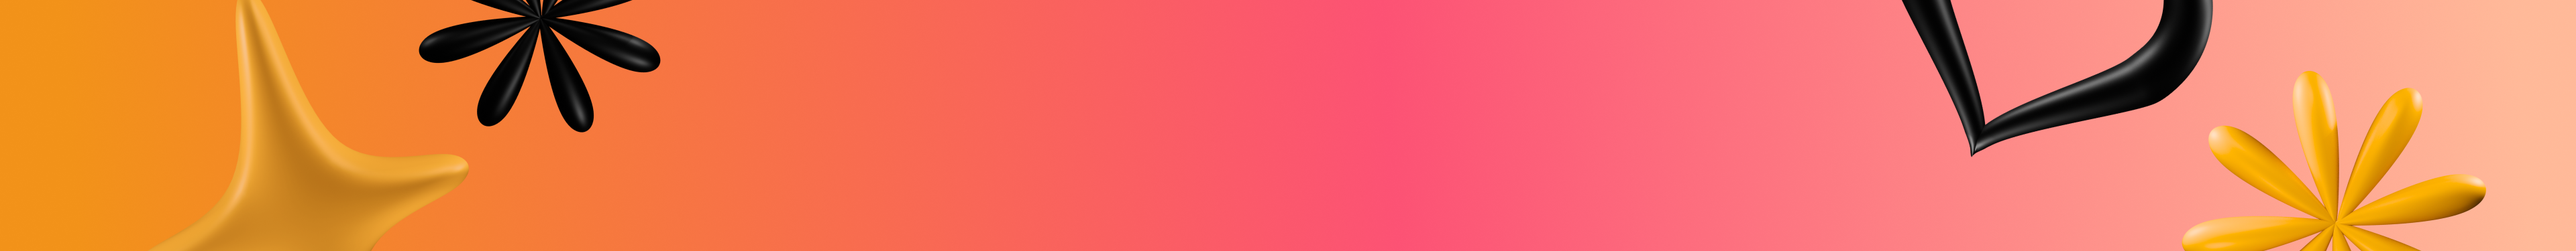
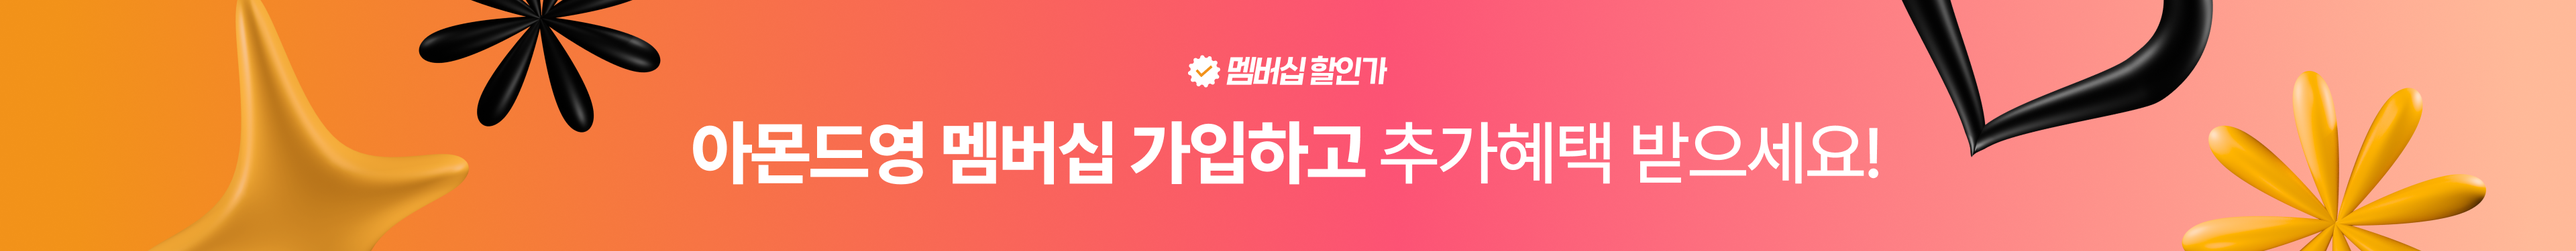
refactor: 배너 컴포넌트 삭제 및 중간 배너로 대체, getProductList 함수 파라미터 수정, 로그 추가

Changed region(s): [[0.25, 0.4693, 0.75, 0.7333], [0.4375, 0.2053, 0.5625, 0.352]]

diff --git a/src/domains/home/components/banner/hero-banner.tsx b/src/domains/home/components/banner/hero-banner.tsx
@@ -1,9 +1,8 @@
 import { HeroBannerCarousel } from "@/components/banner/banner-carousel"
 import { getBannerGroupByCode } from "@/lib/api/pim/banner"
-import { getProductByMasterId } from "@/lib/api/pim/products"
 import type { BannerDto } from "@/lib/types/dto/pim"
-import type { Banner, BannerGroup } from "@/lib/types/ui/product"
-import sortBy from "lodash/sortBy"
+import type { BannerGroup } from "@/lib/types/ui/product"
+import { getActiveBanners } from "@/lib/utils/banner"
 
 export const MOCK_BANNER_GROUP: BannerGroup = {
   id: "group_001",
@@ -92,20 +91,60 @@ export const MOCK_BANNER_GROUP: BannerGroup = {
 }
 
 export async function HeroBanner() {
-  // const bannerGroup: BannerGroup = await getBannerGroupByCode("MAIN_HERO")
-  // const activeBanners: BannerDto[] = sortBy(bannerGroup.banners, [
-  //   "sortOrder",
-  // ]).filter((banner) => {
-  //   const now = new Date().getTime()
-  //   const start = new Date(banner.displayStartAt ?? 0).getTime()
-  //   const end = new Date(banner.displayEndAt ?? 0).getTime()
+  const bannerGroup: BannerGroup | null = await getBannerGroupByCode(
+    "MAIN_HERO"
+  ).catch((err) => {
+    console.error("getBannerGroupByCode error:", err)
+    return null
+  })
 
-  //   return banner.isActive && start <= now && end >= now
-  // })
+  // 배너 그룹 내에서 현재 노출 가능한 활성 배너만 필터링하고 정렬
+  const activeBanners: BannerDto[] = getActiveBanners(bannerGroup?.banners)
+
+  // 배너 에러 및 활성화된 배너가 없을경우, 에러 표시 대신 브랜드 문구 노출하게끔
+  if (!bannerGroup || activeBanners.length === 0) {
+    return (
+      <div className="pt-4 pb-4 md:pb-[87px]">
+        <div className="relative flex h-[350px] w-full flex-col items-center justify-center overflow-hidden rounded-lg bg-[#F8F9FA] md:h-[540px]">
+          <div className="pointer-events-none absolute inset-0 opacity-[0.03]">
+            <svg className="h-full w-full" xmlns="http://www.w3.org/2000/svg">
+              <defs>
+                <pattern
+                  id="grid"
+                  width="40"
+                  height="40"
+                  patternUnits="userSpaceOnUse"
+                >
+                  <path
+                    d="M 40 0 L 0 0 0 40"
+                    fill="none"
+                    stroke="currentColor"
+                    strokeWidth="1"
+                  />
+                </pattern>
+              </defs>
+              <rect width="100%" height="100%" fill="url(#grid)" />
+            </svg>
+          </div>
+          <div className="relative z-10 flex flex-col items-center gap-4">
+            <h2 className="text-2xl font-extrabold tracking-tight text-[#222] md:text-3xl">
+              ALMOND<span className="font-light text-blue-600">YOUNG</span>
+            </h2>
+            <div className="h-px w-8 bg-gray-300" />
+            <p className="text-[13px] font-medium tracking-wide text-gray-500 uppercase md:text-sm">
+              Professional Beauty Solution
+            </p>
+            <p className="mt-2 text-[12px] text-gray-400">
+              현재 새로운 소식을 준비하고 있습니다.
+            </p>
+          </div>
+        </div>
+      </div>
+    )
+  }
 
   // // 배너마다 연결된 상품 상세 정보 가져오기
   // todo: master 다중조회 api 완성시 연결
-
   return (
     <div className="pt-4 pb-4 md:pb-[87px]">
       <HeroBannerCarousel

diff --git a/src/domains/home/components/banner/middle-banner.tsx b/src/domains/home/components/banner/middle-banner.tsx
@@ -1,0 +1,79 @@
+import { getBannerGroupByCode } from "@/lib/api/pim/banner"
+import { BannerDto } from "@/lib/types/dto/pim"
+import { BannerGroup } from "@/lib/types/ui/product"
+import { cn } from "@/lib/utils"
+import { getActiveBanners } from "@/lib/utils/banner"
+import Image from "next/image"
+import Link from "next/link"
+import React from "react"
+
+interface MiddleBannerProps {
+  className?: string
+}
+
+export default async function MiddleBanner({
+  className = "",
+}: MiddleBannerProps) {
+  const bannerGroup: BannerGroup | null = await getBannerGroupByCode(
+    "MAIN_MEMBERSHIP"
+  ).catch((err) => {
+    console.error("getBannerGroupByCode error:", err)
+    return null
+  })
+
+  // 배너 그룹 내에서 현재 노출 가능한 활성 배너만 필터링하고 정렬
+  const activeBanners: BannerDto[] = getActiveBanners(bannerGroup?.banners)
+
+  // 배너 에러 및 활성화된 배너가 없을경우, 에러 표시 대신 하드스타일 코드로 입력한게 노출되게끔
+  if (!bannerGroup || activeBanners.length === 0) {
+    return (
+      <div className={cn("relative w-full px-4 md:px-0", className)}>
+        <Link
+          href="/mypage/membership"
+          className="relative flex h-[89px] w-full flex-col items-center justify-center overflow-hidden rounded-xl bg-gradient-to-r from-[#FF7E5F] to-[#FEB47B] text-white shadow-sm md:h-[120px]"
+        >
+          <div className="absolute -top-4 -left-4 h-20 w-20 rounded-full bg-white/10 blur-2xl" />
+          <div className="absolute -right-4 -bottom-4 h-24 w-24 rounded-full bg-black/5 blur-2xl" />
+
+          <div className="relative z-10 flex flex-col items-center gap-1 md:gap-2">
+            <span className="text-lg font-bold tracking-tight md:text-2xl">
+              멤버십 할인가
+            </span>
+            <p className="text-[11px] font-medium opacity-90 md:text-sm">
+              아몬드영 멤버십 가입하고 추가혜택 받으세요!
+            </p>
+          </div>
+        </Link>
+      </div>
+    )
+  }
+
+  return (
+    <div
+      className={cn(
+        "relative h-[89px] w-full overflow-hidden md:h-[120px]",
+        className
+      )}
+    >
+      <Link href="/mypage/membership" className="block h-full w-full">
+        {/* mobile image */}
+        <Image
+          className="object-cover transition-transform duration-300 hover:scale-105 md:hidden"
+          src={"/images/banner/membership_banner.png"} // todo: 배너 이미지 연동 후 수정
+          alt="아몬드영 멤버십 가입하고 추가혜택 받으세요!" // todo: 배너 텍스트 연동 후 수정
+          fill
+          priority
+        />
+
+        {/* desktop image */}
+        <Image
+          className="hidden object-cover transition-transform duration-300 hover:scale-105 md:block"
+          src={"/images/banner/membership_banner.png"} // todo: 배너 이미지 연동 후 수정
+          alt="아몬드영 멤버십 가입하고 추가혜택 받으세요!" // todo: 배너 텍스트 연동 후 수정
+          fill
+          priority
+        />
+      </Link>
+    </div>
+  )
+}

diff --git a/src/app/[countryCode]/(main)/page.tsx b/src/app/[countryCode]/(main)/page.tsx
@@ -1,12 +1,13 @@
 import { ThemeManager } from "@/components/shared/theme-manager"
-import ProtectedRoute from "@components/protected-route"
-import { getCategoryTree } from "@lib/api/pim"
-import type { CategoryTreeNodeDto } from "@lib/types/dto/pim"
-import { fetchMe } from "@lib/api/users/me"
-import { HomeLogoutTemplate } from "domains/home/template/home-logout-template"
+import { getProductList } from "@/lib/api/medusa/products"
+import { getRegion } from "@/lib/api/medusa/regions"
 import { siteConfig } from "@/lib/config/site"
 import { getSEOTags } from "@/lib/seo"
-import { getProductList } from "@/lib/api/medusa/products"
+import ProtectedRoute from "@components/protected-route"
+import { getCategoryTree } from "@lib/api/pim"
+import { fetchMe } from "@lib/api/users/me"
+import type { CategoryTreeNodeDto } from "@lib/types/dto/pim"
+import { HomeLogoutTemplate } from "domains/home/template/home-logout-template"
 
 export const metadata = getSEOTags({
   title: `${siteConfig.appName} | 최저가 미용재료 MRO 쇼핑몰`,
@@ -20,6 +21,8 @@ export default async function Home({
   params: { countryCode: string }
 }) {
   const { countryCode } = await params
+  const region = await getRegion(countryCode)
+
   // 카테고리 트리 조회
   let categories: CategoryTreeNodeDto[] = []
 
@@ -27,8 +30,14 @@ export default async function Home({
   categories = result?.categories || []
 
   const productList = await getProductList({
-    country_code: countryCode,
-  }).catch(() => null)
+    region_id: region?.id,
+    // categoryId: categories[0]?.id,
+  }).catch((err) => {
+    console.error("getProductList failed:", err)
+    return null
+  })
+
+  // console.log("productList::::::", productList)
 
   // todo: 로그인 사용자용 홈페이지 섹션들
   const user = await fetchMe().catch(() => null)

diff --git a/src/domains/home/template/home-logout-template.tsx b/src/domains/home/template/home-logout-template.tsx
@@ -1,9 +1,9 @@
 import type { CategoryTreeNodeDto } from "@lib/types/dto/pim"
 import { HeroBanner } from "../components/banner/hero-banner"
-import { MembershipBanner } from "../components/banner/membership-banner"
-import { ProductListSection } from "../components/shared/product-list-section"
-import { CategoryBestSection } from "../components/sections/category-best"
 import { LoginPromptBanner } from "../components/banner/login-prompt-banner"
+import MiddleBanner from "../components/banner/middle-banner"
+import { CategoryBestSection } from "../components/sections/category-best"
+import { ProductListSection } from "../components/shared/product-list-section"
 
 interface HomeLogoutTemplateProps {
   initialCategories: CategoryTreeNodeDto[]
@@ -28,9 +28,9 @@ export function HomeLogoutTemplate({
         <CategoryBestSection initialCategories={initialCategories} />
       </ProductListSection>
 
-      {/* 멤버십 배너 섹션 */}
+      {/* 중간 배너 섹션 */}
       <ProductListSection>
-        <MembershipBanner className="mb-4" />
+        <MiddleBanner className="mb-4" />
       </ProductListSection>
     </div>
   )

diff --git a/src/lib/api/medusa/products.ts b/src/lib/api/medusa/products.ts
@@ -9,7 +9,7 @@ interface GetProductListParams {
   page?: number
   limit?: number
   categoryId?: string
-  country_code?: string
+  region_id?: string
 }
 
 // 상품 목록 조회
@@ -17,7 +17,7 @@ export const getProductList = async ({
   page = 1,
   limit = 10,
   categoryId,
-  country_code = "kr",
+  region_id,
 }: GetProductListParams): Promise<ProductsResponseDto> => {
   const offset = (page - 1) * limit
 
@@ -32,7 +32,7 @@ export const getProductList = async ({
         offset,
         category_id: categoryId,
         fields: "*variants.calculated_price,+categories,+metadata,+tags",
-        country_code: country_code,
+        region_id: region_id,
       },
       {
         next: {
@@ -56,11 +56,13 @@ export const getProductList = async ({
 }
 // 상품 상세 조회
 export const getProductDetail = async (
-  productId: string
+  productId: string,
+  regionId?: string
 ): Promise<StoreProduct> => {
   try {
     const { product } = await sdk.store.product.retrieve(productId, {
       fields: "*variants.calculated_price",
+      region_id: regionId,
     })
 
     return product

diff --git a/src/domains/home/template/home-loggedin-template.tsx b/src/domains/home/template/home-loggedin-template.tsx
@@ -8,7 +8,7 @@ import {
 import { getProductListService } from "@lib/services/pim/products/getProductListService"
 import type { UserDetailDto } from "@lib/types/dto/users"
 import { ProductCard } from "@lib/types/ui/product"
-import MembershipBanner from "domains/home/components/banner/membership-banner"
+import MembershipBanner from "@/domains/home/components/banner/middle-banner"
 import ProductIntrestSection from "domains/home/components/report/product-intrest-section"
 import { useEffect, useState } from "react"
 import ProductList from "../components/list/product-list"

diff --git a/src/lib/utils/banner.ts b/src/lib/utils/banner.ts
@@ -1,0 +1,16 @@
+import { sortBy } from "lodash"
+import { BannerDto } from "../types/dto/pim"
+
+/**
+ * 배너 그룹 내에서 현재 노출 가능한 활성 배너만 필터링하고 정렬합니다.
+ */
+export function getActiveBanners(banners: BannerDto[] = []): BannerDto[] {
+  const now = new Date().getTime()
+
+  return sortBy(banners, ["sortOrder"]).filter((banner) => {
+    const start = new Date(banner.displayStartAt ?? 0).getTime()
+    const end = new Date(banner.displayEndAt ?? 0).getTime()
+
+    return banner.isActive && start <= now && end >= now
+  })
+}

diff --git a/src/domains/home/components/banner/login-prompt-banner.tsx b/src/domains/home/components/banner/login-prompt-banner.tsx
@@ -14,7 +14,7 @@ export function LoginPromptBanner() {
       href={`/${countryCode}/login`}
       className="mb-3.5 block px-4 py-2 md:hidden"
     >
-      <Card className="overflow-hidden border-[0.5px] shadow-sm transition-colors">
+      <Card className="overflow-hidden border-[0.5px] shadow-none transition-colors">
         <CardContent className="flex items-center justify-between p-4">
           <div className="flex items-center gap-4">
             {/* 유저 아이콘 영역 */}

diff --git a/src/domains/home/hooks/use-category.ts b/src/domains/home/hooks/use-category.ts
@@ -17,7 +17,11 @@ export function useCategory(initialCategories: CategoryTreeNodeDto[]) {
     if (!selectedCategoryId) return
 
     startTransition(async () => {
-      const data = await getProductList(1, 10, selectedCategoryId)
+      const data = await getProductList({
+        page: 1,
+        limit: 10,
+        categoryId: selectedCategoryId,
+      })
       setCategoryProducts(data.products)
     })
   }, [selectedCategoryId])

diff --git a/src/lib/api/pim/banner.ts b/src/lib/api/pim/banner.ts
@@ -2,11 +2,8 @@ import { BannerGroupDto } from "@/lib/types/dto/pim"
 import { api } from "../api"
 
 export async function getBannerGroupByCode(code: string) {
-  return await api<BannerGroupDto>("pim", `/banner-groups/by-code`, {
+  return await api<BannerGroupDto>("pim", `/banner-groups/by-code/${code}`, {
     method: "GET",
     withAuth: false,
-    params: {
-      code,
-    },
   })
 }

diff --git a/src/middleware.ts b/src/middleware.ts
@@ -55,6 +55,8 @@ async function getRegionMap(cacheId: string) {
           regionMapCache.regionMap.set(c.iso_2 ?? "", region)
         })
       })
+
+      console.log("regions::", regions)
       regionMapCache.regionMapUpdated = Date.now()
     } catch (error) {
       // API 호출 실패 시 기본 리전만 사용
